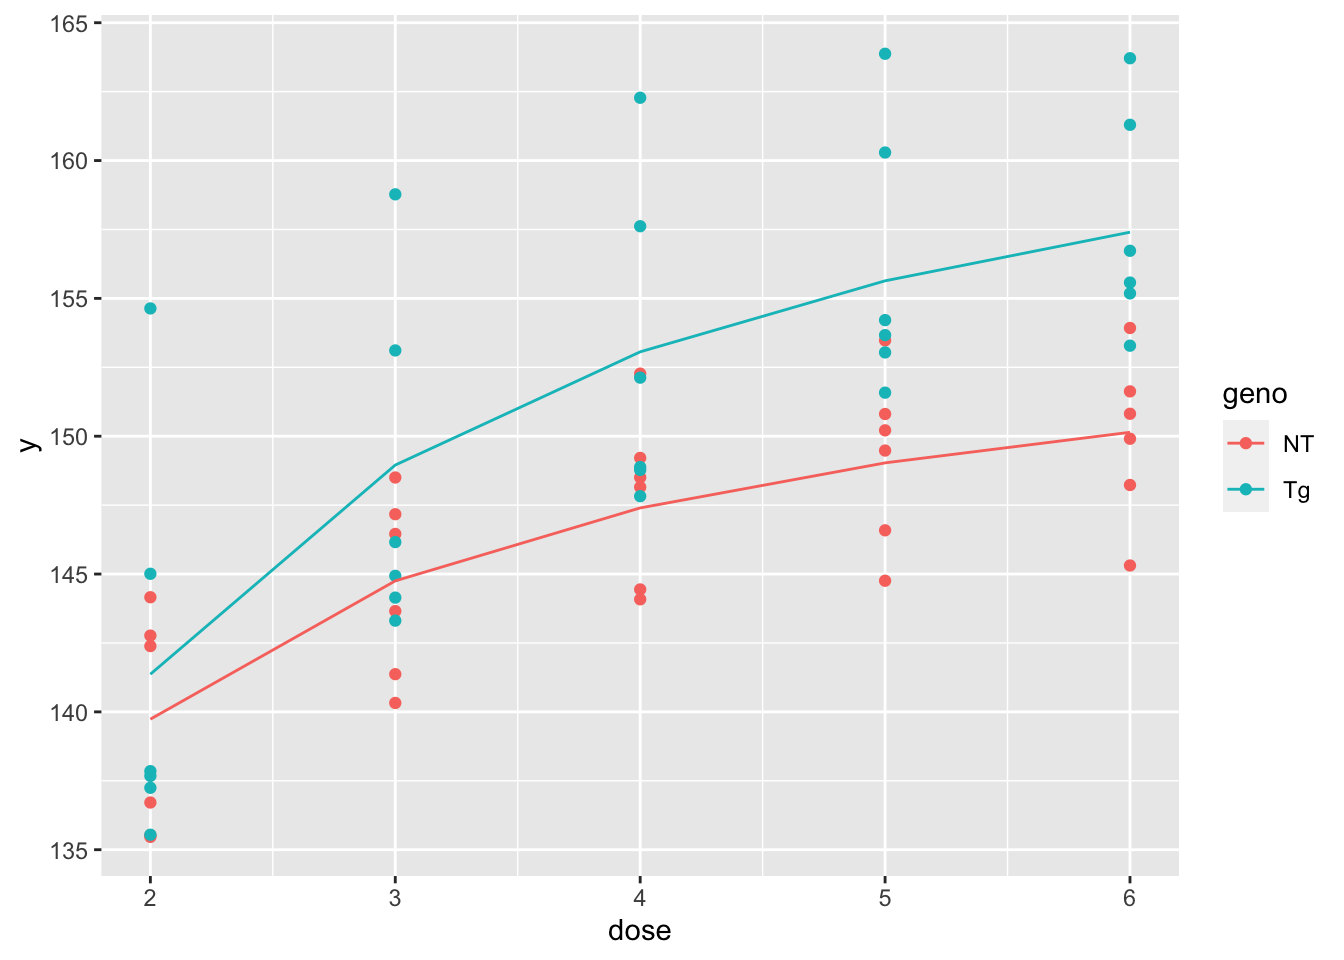
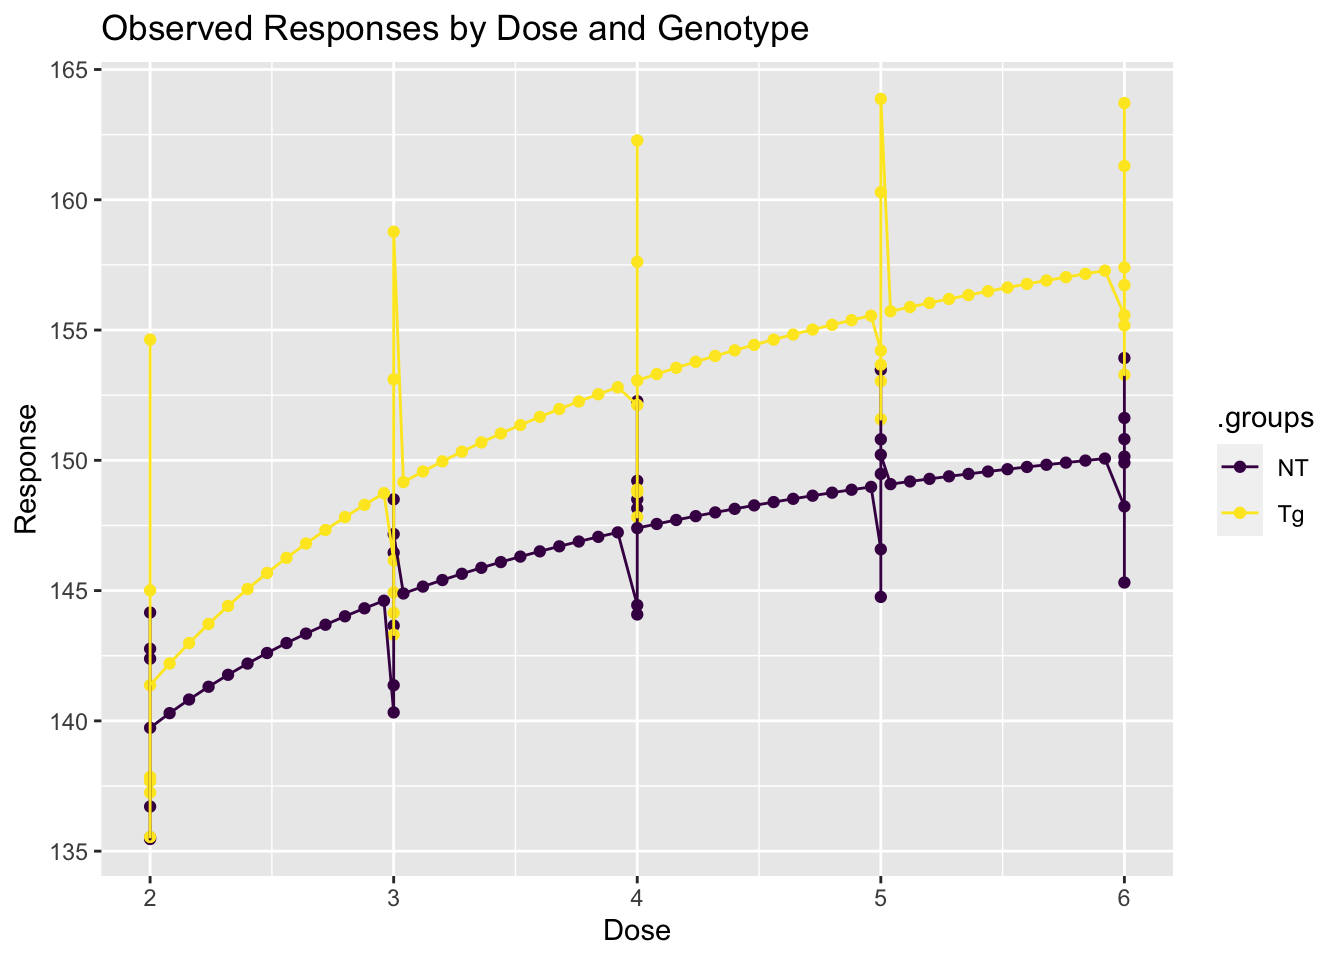
messing around with ggplot

diff --git a/nonlinear.html b/nonlinear.html
@@ -9,7 +9,7 @@
 <meta name="author" content="Joy Bao-Dai, Aimi Wen, Emily Zhao">
 <meta name="dcterms.date" content="2024-04-03">
 
-<title>quarto-inputc3b2c3d4</title>
+<title>quarto-input1edc0829</title>
 <style>
 code{white-space: pre-wrap;}
 span.smallcaps{font-variant: small-caps;}
@@ -558,17 +558,14 @@ fit_reduced     2  4 361.1024 369.4798 -176.5512</code></pre>
 <span id="cb47-5"><a href="#cb47-5" aria-hidden="true" tabindex="-1"></a>                    <span class="co">#random = (K~1|pair))</span></span></code><button title="Copy to Clipboard" class="code-copy-button"><i class="bi"></i></button></pre></div>
 </div>
 </section>
-<section id="trying-to-get-predicted-out" class="level3">
-<h3 class="anchored" data-anchor-id="trying-to-get-predicted-out">Trying to get Predicted out</h3>
+<section id="doing-ggplot-version" class="level3">
+<h3 class="anchored" data-anchor-id="doing-ggplot-version">Doing ggplot version</h3>
 <div class="cell">
-<div class="sourceCode cell-code" id="cb48"><pre class="sourceCode r code-with-copy"><code class="sourceCode r"><span id="cb48-1"><a href="#cb48-1" aria-hidden="true" tabindex="-1"></a>predicted_values <span class="ot">&lt;-</span> <span class="fu">predict</span>(fit_GM_geno)</span>
-<span id="cb48-2"><a href="#cb48-2" aria-hidden="true" tabindex="-1"></a></span>
-<span id="cb48-3"><a href="#cb48-3" aria-hidden="true" tabindex="-1"></a>dPsi_GM<span class="sc">$</span>predicted_geno <span class="ot">&lt;-</span> predicted_values</span>
-<span id="cb48-4"><a href="#cb48-4" aria-hidden="true" tabindex="-1"></a></span>
-<span id="cb48-5"><a href="#cb48-5" aria-hidden="true" tabindex="-1"></a><span class="fu">ggplot</span>(dPsi_GM, <span class="fu">aes</span>(<span class="at">x =</span> dose, </span>
-<span id="cb48-6"><a href="#cb48-6" aria-hidden="true" tabindex="-1"></a>                    <span class="at">color =</span> geno)) <span class="sc">+</span> </span>
-<span id="cb48-7"><a href="#cb48-7" aria-hidden="true" tabindex="-1"></a>  <span class="fu">geom_point</span>(<span class="fu">aes</span>(<span class="at">y =</span> y)) <span class="sc">+</span> </span>
-<span id="cb48-8"><a href="#cb48-8" aria-hidden="true" tabindex="-1"></a>  <span class="fu">geom_line</span>(<span class="fu">aes</span>(<span class="at">y =</span> predicted_geno)) </span></code><button title="Copy to Clipboard" class="code-copy-button"><i class="bi"></i></button></pre></div>
+<div class="sourceCode cell-code" id="cb48"><pre class="sourceCode r code-with-copy"><code class="sourceCode r"><span id="cb48-1"><a href="#cb48-1" aria-hidden="true" tabindex="-1"></a><span class="fu">ggplot</span>(predictions_geno, <span class="fu">aes</span>(<span class="at">x =</span> dose, <span class="at">y =</span> y, <span class="at">color =</span> .groups)) <span class="sc">+</span></span>
+<span id="cb48-2"><a href="#cb48-2" aria-hidden="true" tabindex="-1"></a>  <span class="fu">geom_point</span>() <span class="sc">+</span></span>
+<span id="cb48-3"><a href="#cb48-3" aria-hidden="true" tabindex="-1"></a>  <span class="fu">geom_line</span>() <span class="sc">+</span> </span>
+<span id="cb48-4"><a href="#cb48-4" aria-hidden="true" tabindex="-1"></a>  <span class="fu">labs</span>(<span class="at">title =</span> <span class="st">"Observed Responses by Dose and Genotype"</span>,</span>
+<span id="cb48-5"><a href="#cb48-5" aria-hidden="true" tabindex="-1"></a>       <span class="at">x =</span> <span class="st">"Dose"</span>, <span class="at">y =</span> <span class="st">"Response"</span>)</span></code><button title="Copy to Clipboard" class="code-copy-button"><i class="bi"></i></button></pre></div>
 <div class="cell-output-display">
 <p><img src="nonlinear_files/figure-html/unnamed-chunk-16-1.png" class="img-fluid" width="672"></p>
 </div>
